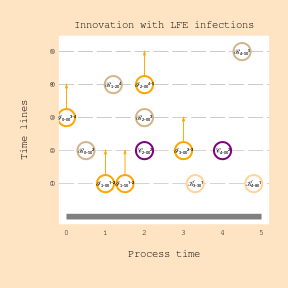
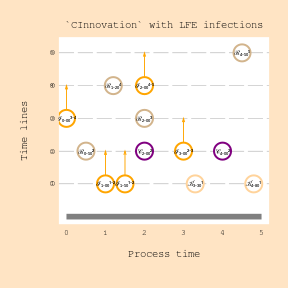
Added use of `CInnovation` in some notebooks.

diff --git a/julia/README.md b/julia/README.md
@@ -1,27 +1,54 @@
 # Julia notebooks for `EpidemicsCFTP`. 
 
 ## Producing primary files
-Primary files are produced by `quarto`. At the of writing these files are
+Primary files are produced by `quarto`. At the time of writing these files are
+
+* `CFTP.qmd` running a simple example of `CFTP`;
 
 * `test.qmd` comprising some unit tests for `EpidemicsCFTP`;
+
+* `LFEandNFZ.qmd` developing some tests for correctness of `LFE` and `NFZ` fields;
+
+* `check.qmd` running some statistical simulation tests;
+
 * `introduction.qmd` introducing the basic ideas of `EpidemicsCFTP`;
-* `production.qmd` generating figures for the paper;
-* `experiment.qmd` containing various experimental constructions.
+
+* `production.qmd` generating figures for the paper.
+
+* `Notes-on-sampling.qmd` making some observations on how to estimate $\operatorname{S-I-R}$ parameters;
+
+  > [!NOTE]
+  >
+  > No `julia` in the document `Notes-on-sampling.qmd`!
 
 Run the `quarto`notebooks using (for example)
 ```bash
 quarto render introduction.qmd --to pdf
 ```
-or alternatively use `make` (for example)
+or alternatively use `make`: for example
 ```
 make introduction.pdf
 ```
+
+## TODO list
+
+- [ ] `[24/02/2024]`Update `*.qmd` to use  `CInnovation` type.
+
+  > [!NOTE]
+  >
+  > Depends on entry in TODO list for `EpidemicsCFTP` module.
+
+- [ ] `[24/02/2024]`Extend `CFTP.qmd` to cover a more extensive example using more `CRemoval`s.
+
+- [ ] `[24/02/2024]`Move unit tests from `test.qmd` to `EpidemicsCFTP/test`. 
+
+- [ ] `[24/02/2024]`Extend `production.qmd` to use more recent code and to cover more figures.
 
 ## Checking whether any changes of code alter figures
 
 Illustrative figures are produced in the `image` subdirectory, such as
 
-![](/home/wilfrid/ms/PerfectEpidemics/julia/image/introduction-18-one-iteration.png)
+![](/home/wilfrid/ms/PerfectEpidemics/julia/image/CFTP-01-minstep4.png)
 
 To check that  pictures have not changed from reference versions (`image/VERIFY_*.png` use
 ```bash
